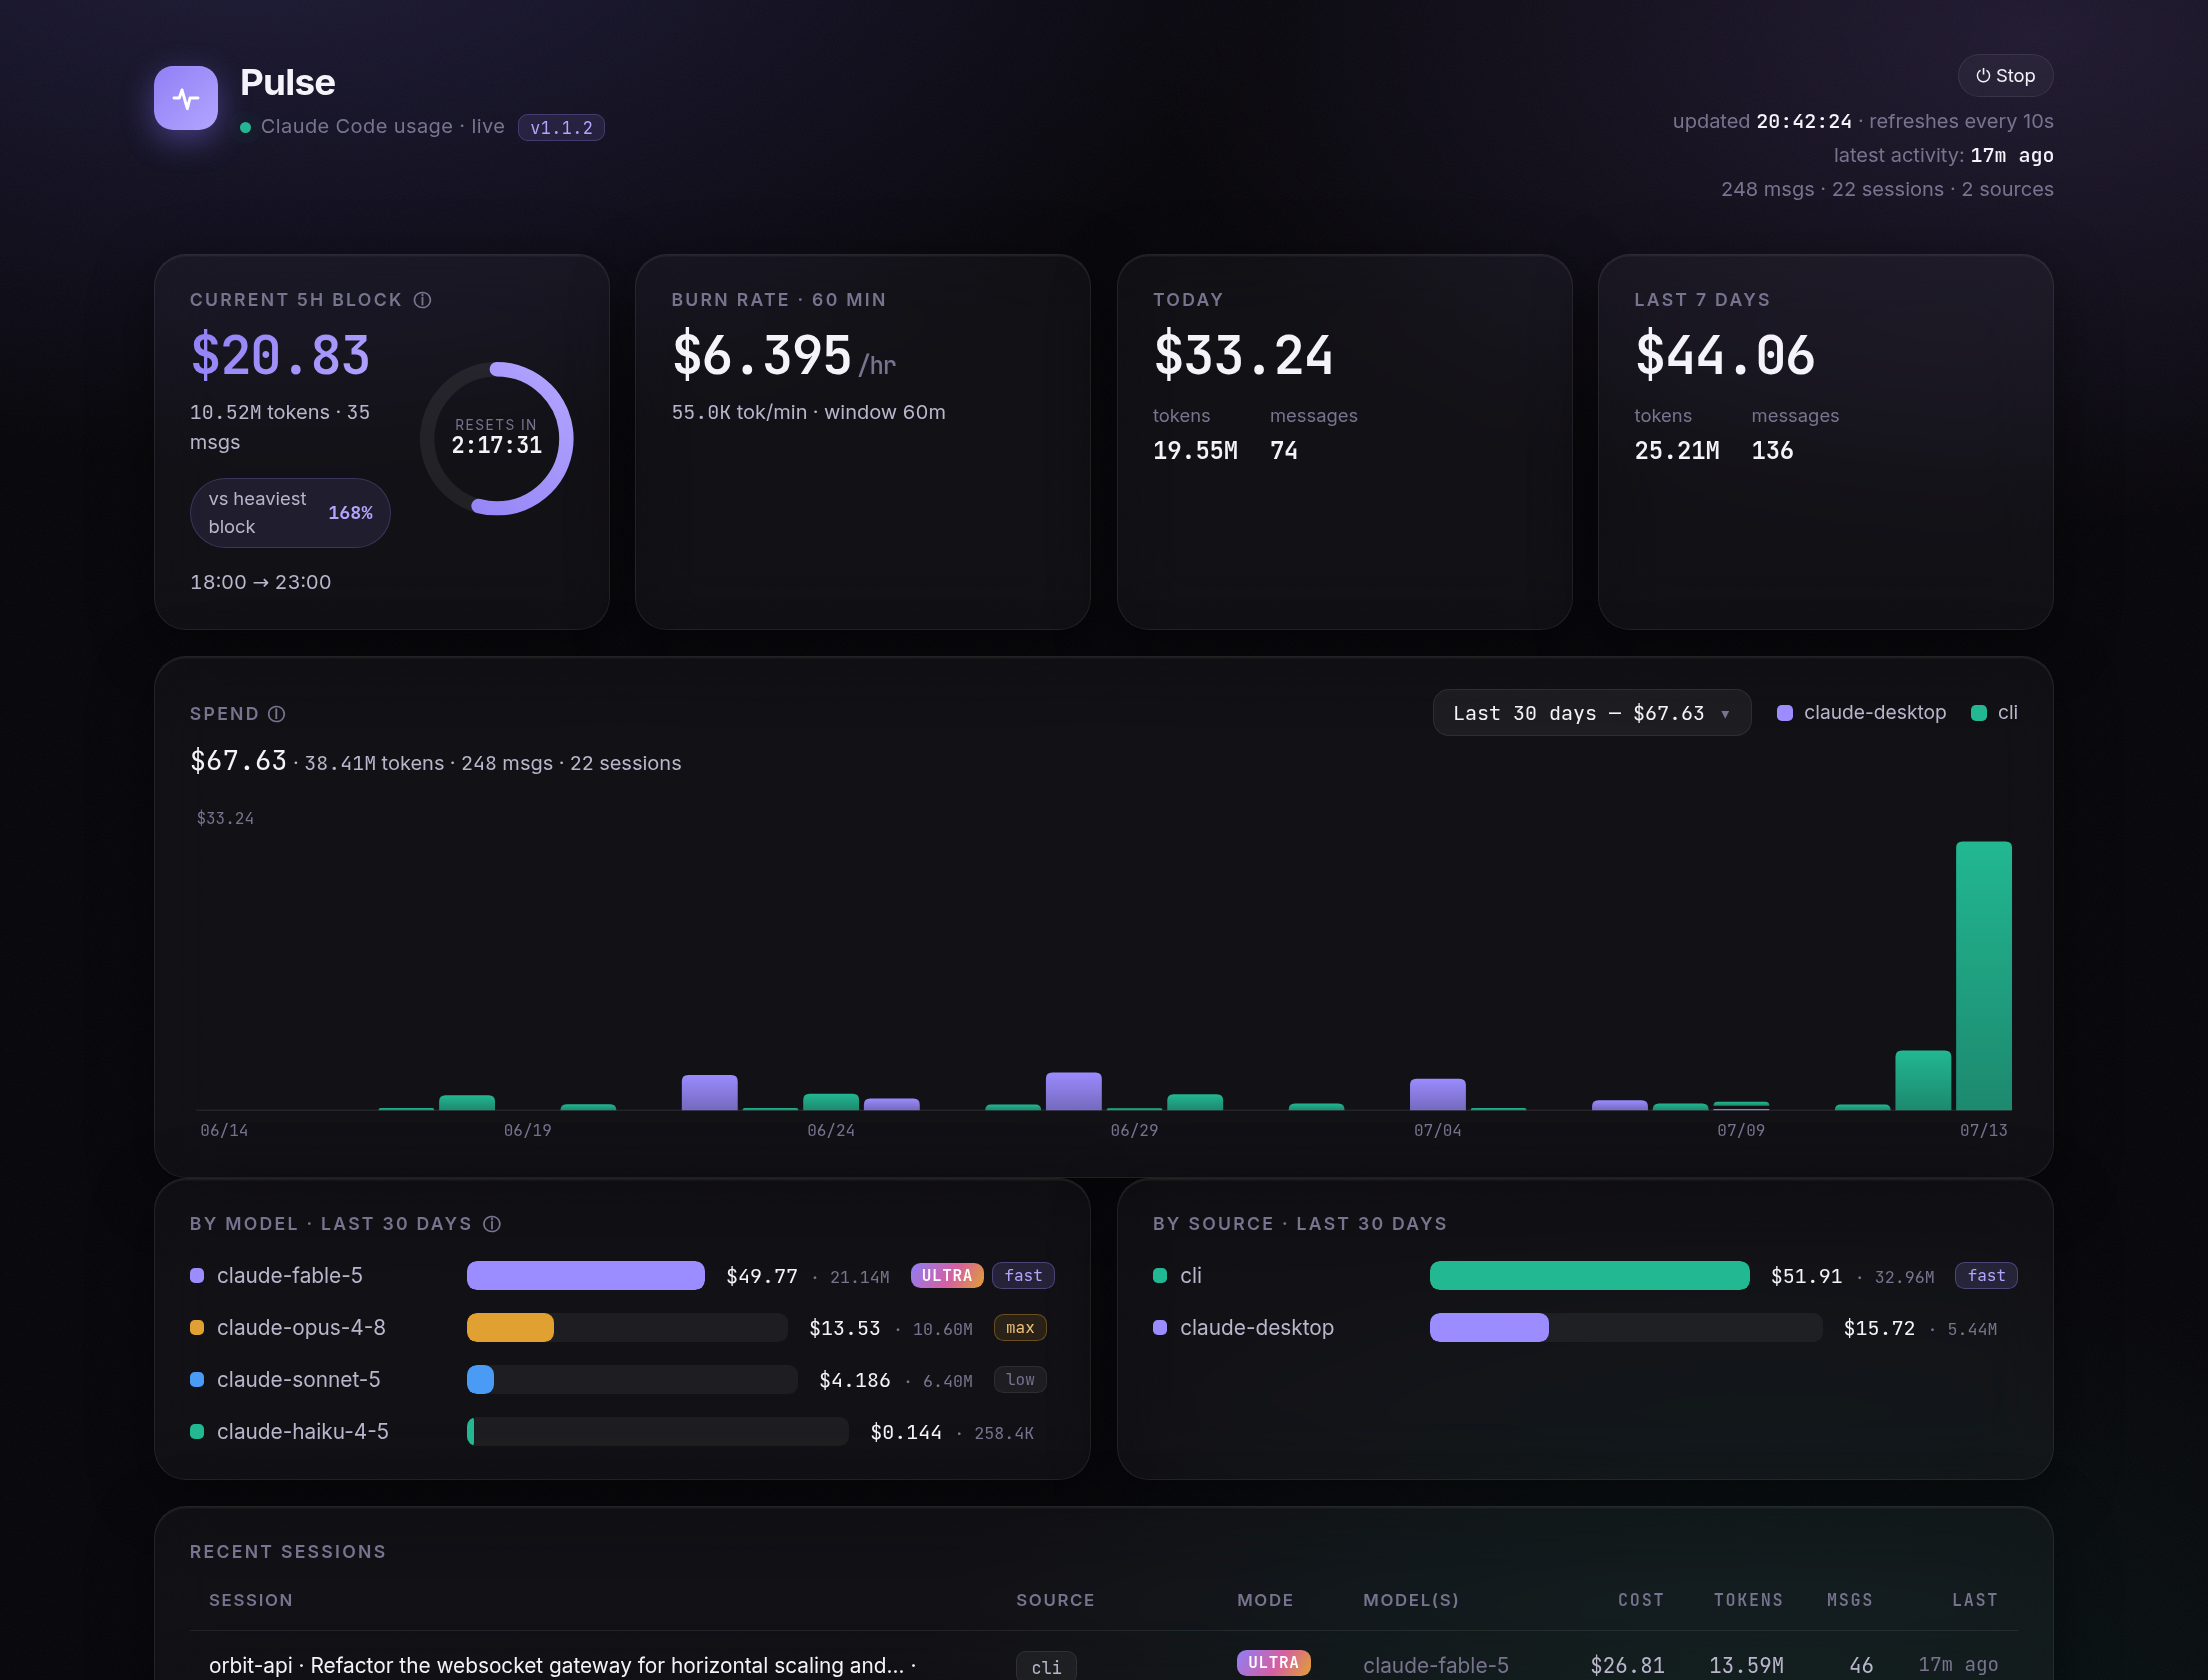
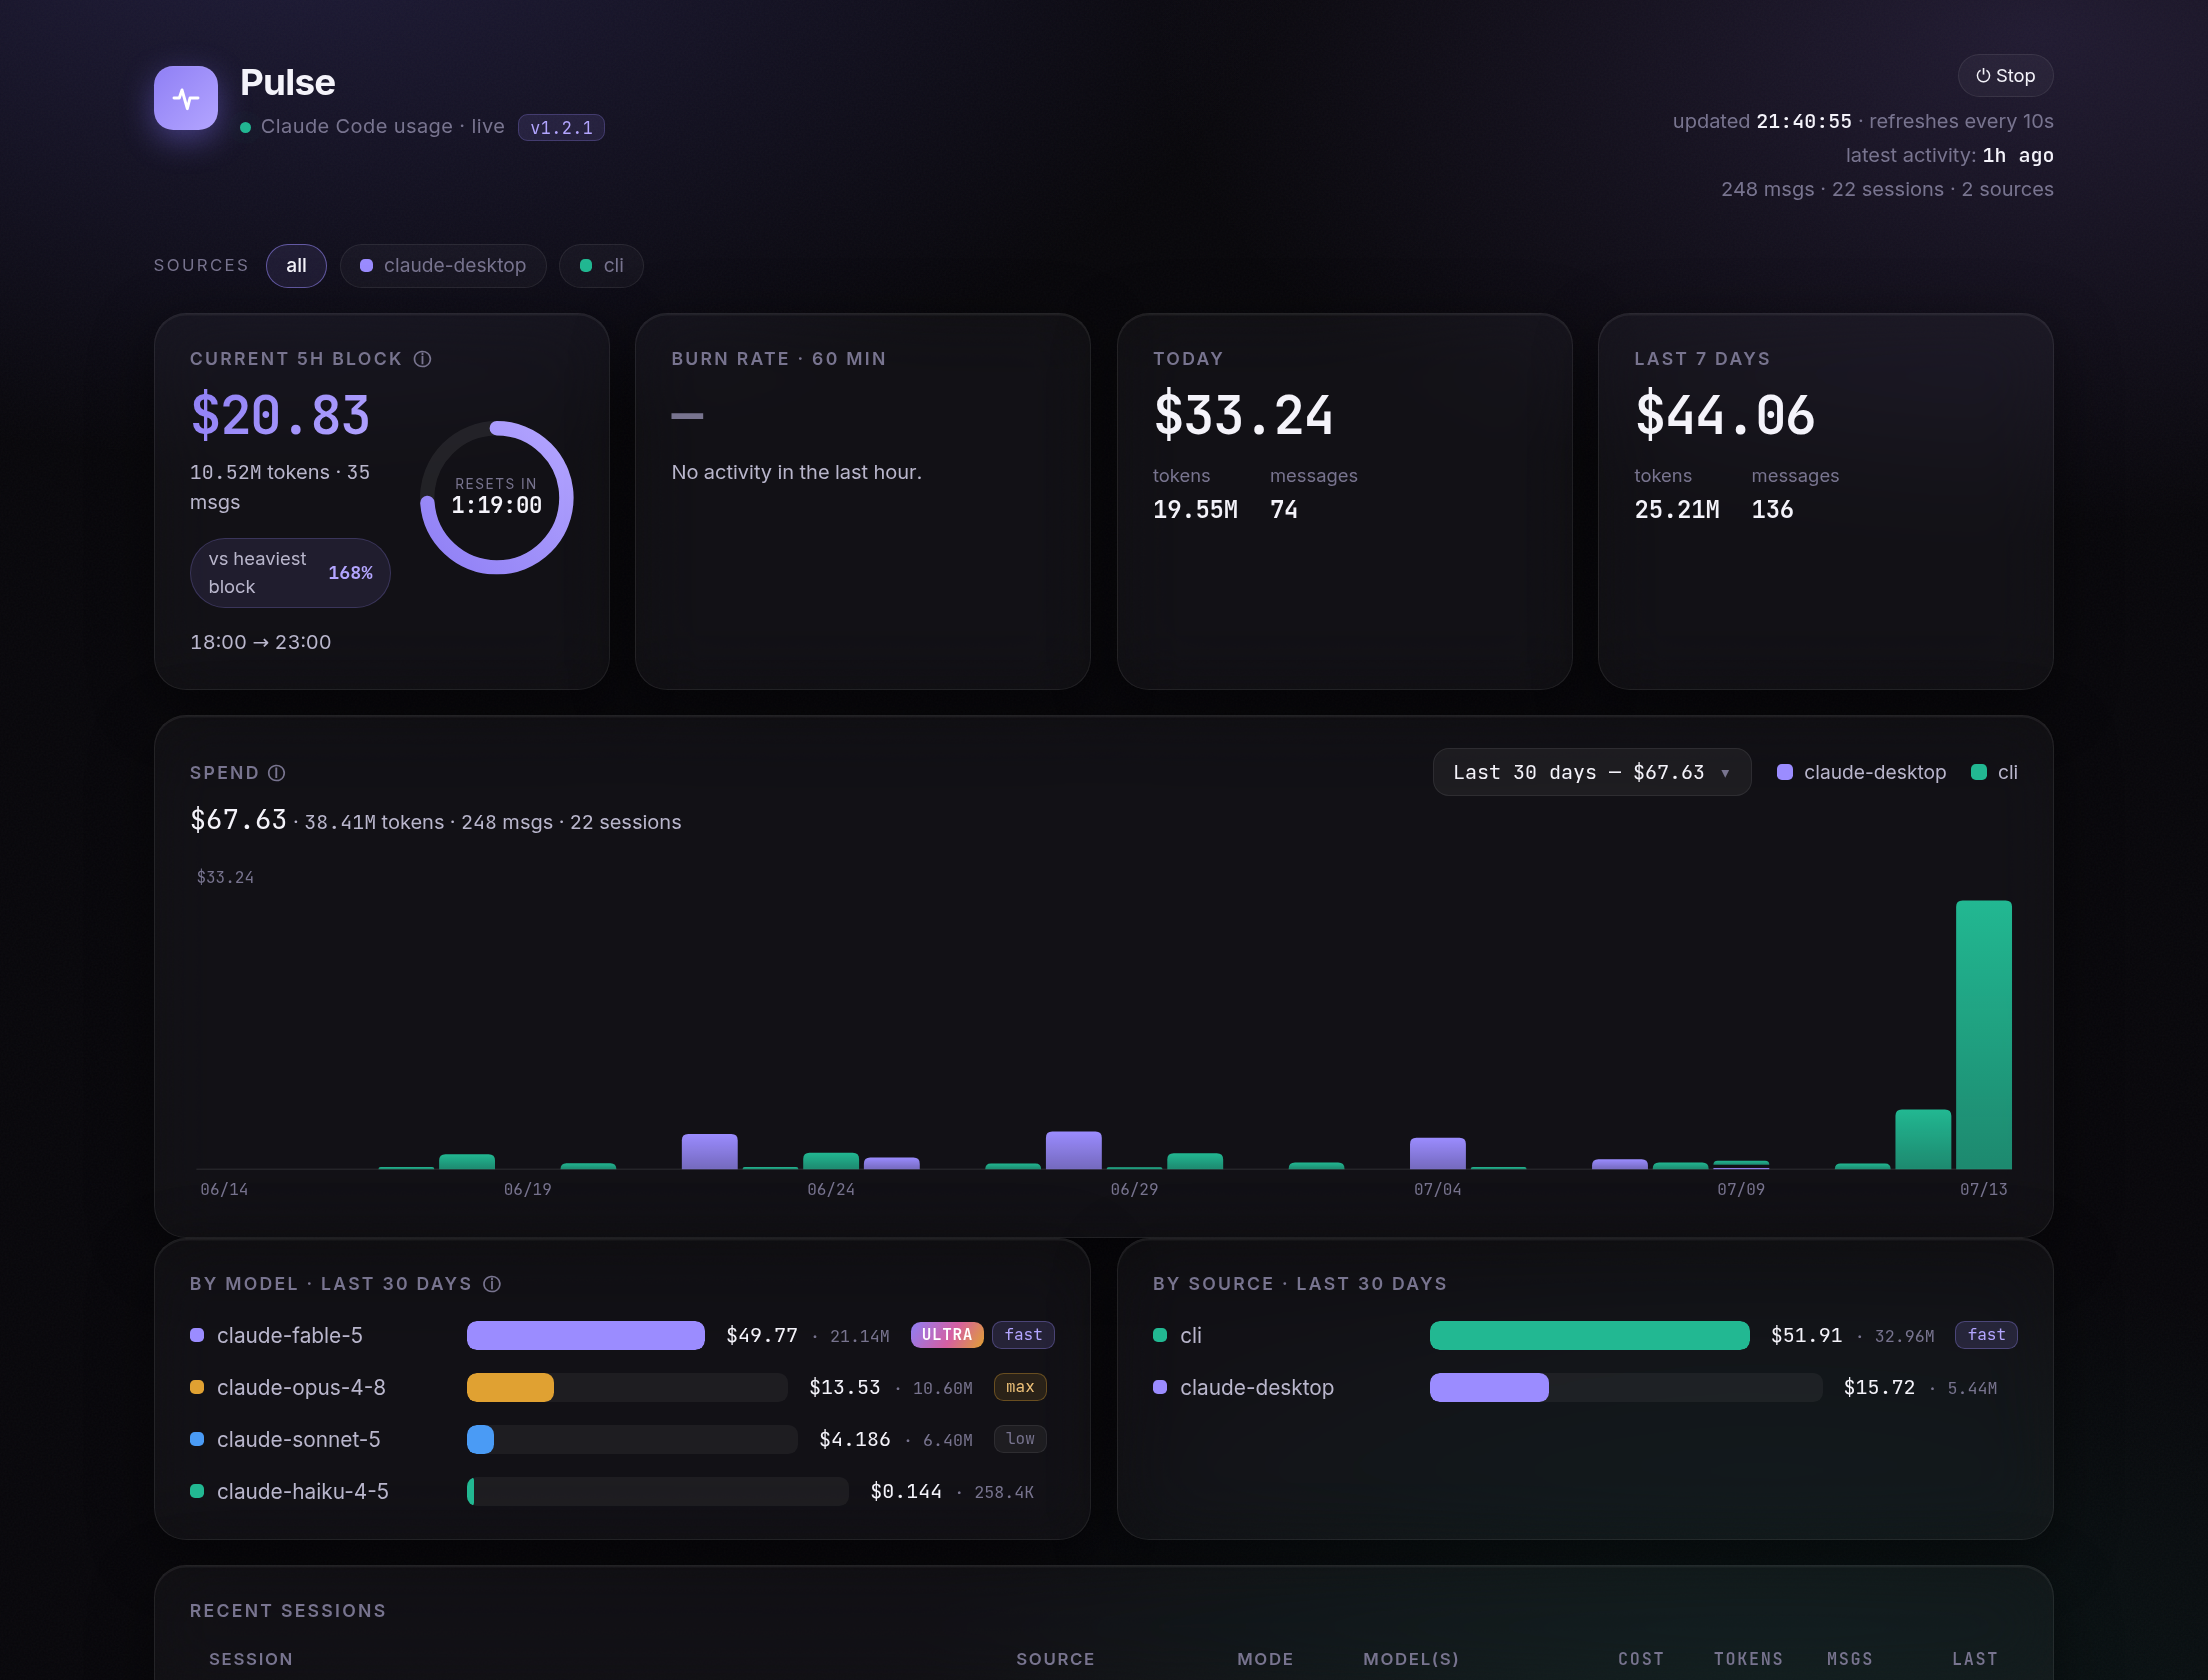
v1.2.1: source filter, chart tooltip fix, gpt-unknown backfill
- Source filter: /api/summary?sources=a,b scopes the entire payload
  (blocks, burn, periods, sessions) server-side; allSources/allModels
  stay unfiltered so the chip list is complete and colors stable. UI
  chips above the dashboard, multi-select, persisted in localStorage.
- Spend-chart tooltip positioned container-relative: position:fixed +
  clientX/Y broke under the framer-motion card's CSS transform (a
  transformed ancestor becomes the containing block for fixed), landing
  the tooltip far from the cursor. Verified with a Playwright hover test
  (14px from cursor; right-edge flip stays inside the chart).
- Codex entries recorded before the first turn_context are buffered and
  backfilled with the model + re-priced once it is known — no more
  gpt-unknown rows for the file-leading turn.
- Docs screenshots refreshed (filter chips visible).

Claude-Session: https://claude.ai/code/session_01RmvFr4qeAde8RjrYQ6X57H

diff --git a/web/src/App.jsx b/web/src/App.jsx
@@ -8,9 +8,18 @@ import {
 import { ServerPanel, StopButton } from './server-panel.jsx';
 
 export default function App() {
-  const { data, error, loading } = useSummary();
+  // Source filter — empty array means "all sources". Persisted locally.
+  const [srcFilter, setSrcFilter] = useState(() => {
+    try { return JSON.parse(localStorage.getItem('pulse-source-filter')) || []; } catch (_) { return []; }
+  });
+  const { data, error, loading } = useSummary(10000, srcFilter);
   const [periodKey, setPeriodKey] = useState('last30');
   const [stopped, setStopped] = useState(false);
+
+  function updateFilter(next) {
+    setSrcFilter(next);
+    try { localStorage.setItem('pulse-source-filter', JSON.stringify(next)); } catch (_) {}
+  }
 
   const colorMaps = useMemo(() => ({
     src: makeColorMap(data?.allSources),
@@ -83,6 +92,12 @@ export default function App() {
           ⚠ Server unreachable ({error}) — if you stopped it, double-click <code>pulse.exe</code> to start it again.
         </div>
       )}
+      <SourceFilter
+        allSources={data.allSources || []}
+        active={srcFilter}
+        colorMap={colorMaps.src}
+        onChange={updateFilter}
+      />
       {!data.hasData ? (
         <>
           <div className="center">
@@ -98,6 +113,44 @@ export default function App() {
         <Dashboard data={data} colorMaps={colorMaps} periodKey={periodKey} setPeriodKey={setPeriodKey} onStopped={() => setStopped(true)} />
       )}
     </Shell>
+  );
+}
+
+// Multi-select source filter chips. Empty selection = all sources. The list
+// always shows every source ever seen (server keeps allSources unfiltered),
+// so a chip never disappears because you just filtered it out.
+function SourceFilter({ allSources, active, colorMap, onChange }) {
+  if (!allSources || allSources.length < 2) return null;
+  const set = new Set(active);
+  function toggle(s) {
+    const next = new Set(set);
+    if (next.has(s)) next.delete(s); else next.add(s);
+    // selecting everything = no filter
+    onChange(next.size === allSources.length ? [] : Array.from(next));
+  }
+  return (
+    <div className="srcfilter">
+      <span className="sflabel">sources</span>
+      <button
+        className={'sfchip' + (set.size === 0 ? ' on' : '')}
+        onClick={() => onChange([])}
+      >
+        all
+      </button>
+      {allSources.map((s) => (
+        <button
+          key={s}
+          className={'sfchip' + (set.has(s) ? ' on' : '')}
+          onClick={() => toggle(s)}
+          title={set.has(s) ? 'Click to remove from filter' : 'Click to show only selected sources'}
+        >
+          <i style={{ background: colorMap.get(s) }} />{s}
+        </button>
+      ))}
+      {set.size > 0 && (
+        <span className="sfnote">showing {Array.from(set).join(' + ')} only</span>
+      )}
+    </div>
   );
 }
 

diff --git a/server.js b/server.js
@@ -24,7 +24,7 @@ const url = require('url');
 const crypto = require('crypto');
 
 // Version — keep in sync with package.json (build/make-exe.mjs enforces this).
-const PULSE_VERSION = '1.2.0';
+const PULSE_VERSION = '1.2.1';
 const SERVER_START = Date.now();
 let IS_DAEMON_CHILD = false; // set when running as the hidden background child
 
@@ -637,6 +637,10 @@ function parseCodexFile(filePath) {
   let model = 'gpt-unknown';
   let effort = null;
   let prevTotal = null;
+  // token_count events can precede the first turn_context in a rollout; buffer
+  // those entries and backfill the model (and cost) once it is known instead
+  // of leaving a "gpt-unknown" row on the dashboard.
+  const preModelEntries = [];
 
   for (const line of raw.split('\n')) {
     if (!line) continue;
@@ -652,7 +656,14 @@ function parseCodexFile(filePath) {
       continue;
     }
     if (rec.type === 'turn_context') {
-      if (p.model) model = String(p.model);
+      if (p.model) {
+        model = String(p.model);
+        while (preModelEntries.length) {
+          const pe = preModelEntries.pop();
+          pe.model = model;
+          pe.cost = costForEntry(pe);
+        }
+      }
       const eff = p.effort ||
         (p.collaboration_mode && p.collaboration_mode.settings && p.collaboration_mode.settings.reasoning_effort);
       if (eff) effort = String(eff);
@@ -703,6 +714,7 @@ function parseCodexFile(filePath) {
       };
       e.cost = costForEntry(e);
       entries.push(e);
+      if (model === 'gpt-unknown') preModelEntries.push(e);
       continue;
     }
   }
@@ -1342,12 +1354,34 @@ function collectTitles(obj, fileName, map) {
 // HTTP SERVER  (§6)
 // ---------------------------------------------------------------------------
 
-function buildSummary() {
+// sourceFilter: optional Set of source names — the dashboard's source filter.
+// The WHOLE payload (blocks, burn, periods, sessions) reflects the filtered
+// view, while allSources/allModels stay unfiltered so the filter UI can list
+// every option and colors stay stable across filter changes.
+function buildSummary(sourceFilter) {
   const { entries, sessionMeta, ultracodeSessions, effortEvents, fileCount, codexFileCount } = parseAll();
   const desktopTitles = readDesktopTitles();
   const now = Date.now();
-  const payload = aggregate(entries, sessionMeta, desktopTitles, now,
+  let scoped = entries;
+  let appliedFilter = null;
+  if (sourceFilter && sourceFilter.size) {
+    scoped = entries.filter((e) => sourceFilter.has(e.source));
+    appliedFilter = Array.from(sourceFilter).sort();
+  }
+  const payload = aggregate(scoped, sessionMeta, desktopTitles, now,
     mergeModes(readModes(), effortEvents), ultracodeSessions);
+  if (appliedFilter) {
+    // Recompute the all-time lists from UNFILTERED entries: the filter chips
+    // must keep showing every source, and color assignment must not reshuffle.
+    const srcSet = new Set(), modelSet = new Set();
+    for (const e of entries) {
+      srcSet.add(e.source);
+      if (!HIDDEN_MODELS.has(e.model)) modelSet.add(e.model);
+    }
+    payload.allSources = Array.from(srcSet).sort();
+    payload.allModels = Array.from(modelSet).sort();
+  }
+  payload.sourceFilter = appliedFilter;
   // Surface what Pulse is actually reading, so a wrong-directory setup (e.g.
   // Claude Code under WSL while Pulse runs in native Windows) is diagnosable.
   payload.claudeDir = claudeDir();
@@ -1801,7 +1835,14 @@ function startServer(port, host, opts) {
       }
       if (route === '/api/summary') {
         const t0 = Date.now();
-        const payload = buildSummary();
+        // ?sources=cli,codex — scope the whole payload to those sources.
+        let sourceFilter = null;
+        const rawSources = new URLSearchParams(parsed.query || '').get('sources');
+        if (rawSources) {
+          const names = rawSources.split(',').map((s) => s.trim()).filter(Boolean).slice(0, 20);
+          if (names.length) sourceFilter = new Set(names);
+        }
+        const payload = buildSummary(sourceFilter);
         payload.buildMs = Date.now() - t0;
         console.log(`[pulse] /api/summary built in ${payload.buildMs}ms`);
         res.writeHead(200, { 'Content-Type': 'application/json', 'Cache-Control': 'no-store' });

diff --git a/web/src/charts.jsx b/web/src/charts.jsx
@@ -130,8 +130,8 @@ export function SpendChart({ period, colorMap }) {
   const single = period.singleSource;
 
   function showTip(ev, b) {
-    const el = tipRef.current;
-    if (!el) return;
+    const el = tipRef.current, wrap = ref.current;
+    if (!el || !wrap) return;
     let rows = '';
     srcs.forEach((s) => {
       const c = (b.bySource && b.bySource[s]) || 0;
@@ -142,17 +142,22 @@ export function SpendChart({ period, colorMap }) {
     if (!rows) rows = '<div class="tr" style="color:var(--text-3)">no spend</div>';
     el.innerHTML = `<div class="td">${b.date}</div>${rows}<div class="tr tot"><span>total</span><span class="tv">${money2(b.total)}</span></div><div class="tr" style="color:var(--text-3)"><span>tokens</span><span class="tv">${tokens(b.tokens)}</span></div>`;
     el.style.opacity = '1';
+    // Position relative to the chart container, not the viewport: an ancestor
+    // with a CSS transform (the framer-motion card) turns position:fixed into
+    // ancestor-relative, which sent the tooltip far away from the cursor.
+    const rect = wrap.getBoundingClientRect();
     const tw = el.offsetWidth, th = el.offsetHeight;
-    let left = ev.clientX + 14, top = ev.clientY + 14;
-    if (left + tw > window.innerWidth - 8) left = ev.clientX - tw - 14;
-    if (top + th > window.innerHeight - 8) top = ev.clientY - th - 14;
-    el.style.left = Math.max(8, left) + 'px';
-    el.style.top = Math.max(8, top) + 'px';
+    let left = ev.clientX - rect.left + 14;
+    let top = ev.clientY - rect.top + 14;
+    if (left + tw > rect.width - 4) left = ev.clientX - rect.left - tw - 14;
+    if (top + th > rect.height - 2) top = ev.clientY - rect.top - th - 12;
+    el.style.left = Math.max(4, left) + 'px';
+    el.style.top = Math.max(2, top) + 'px';
   }
   function hideTip() { if (tipRef.current) tipRef.current.style.opacity = '0'; }
 
   return (
-    <div ref={ref} style={{ width: '100%' }} onMouseLeave={hideTip}>
+    <div ref={ref} style={{ width: '100%', position: 'relative' }} onMouseLeave={hideTip}>
       <svg width={w} height={H} role="img" aria-label={`Daily spend for ${period.label}`}>
         <defs>
           {srcs.map((s, i) => {

diff --git a/web/src/styles.css b/web/src/styles.css
@@ -209,7 +209,7 @@ td.title { color: var(--text); max-width: 480px; }
   font-size: 12px; color: var(--text); box-shadow: 0 14px 40px rgba(0, 0, 0, 0.6); z-index: 70;
   max-width: 280px;
 }
-.ctip { position: fixed; pointer-events: none; opacity: 0; transition: opacity 0.1s ease; }
+.ctip { position: absolute; left: 0; top: 0; pointer-events: none; opacity: 0; transition: opacity 0.1s ease; }
 .ctip .td { font-family: var(--mono); color: var(--text-2); margin-bottom: 7px; font-size: 11.5px; }
 .ctip .tr { display: flex; align-items: center; justify-content: space-between; gap: 16px; font-variant-numeric: tabular-nums; }
 .ctip .tr i { width: 9px; height: 9px; border-radius: 3px; display: inline-block; margin-right: 6px; vertical-align: -1px; }
@@ -282,3 +282,21 @@ footer .reading { margin-top: 12px; font-family: var(--mono); font-size: 11.5px;
 /* header actions (update pill + compact stop) */
 .hactions { display: flex; gap: 8px; justify-content: flex-end; align-items: center; margin-bottom: 4px; }
 .btn.compact { padding: 3px 11px; font-size: 11.5px; border-radius: 999px; }
+
+/* ---- source filter chips ---- */
+.srcfilter { display: flex; align-items: center; gap: 8px; flex-wrap: wrap; margin: -6px 0 16px; }
+.srcfilter .sflabel { font-size: 10.5px; letter-spacing: 0.14em; text-transform: uppercase; color: var(--text-3); margin-right: 2px; }
+.sfchip {
+  appearance: none; display: inline-flex; align-items: center; gap: 7px;
+  border: 1px solid var(--stroke); background: rgba(255, 255, 255, 0.03);
+  color: var(--text-3); padding: 4px 12px; border-radius: 999px;
+  font: inherit; font-size: 12px; cursor: pointer;
+  transition: border-color .15s, background .15s, color .15s;
+}
+.sfchip i { width: 8px; height: 8px; border-radius: 3px; display: inline-block; }
+.sfchip:hover { border-color: rgba(155, 140, 255, 0.45); color: var(--text-2); }
+.sfchip.on {
+  border-color: rgba(155, 140, 255, 0.55); background: rgba(155, 140, 255, 0.1);
+  color: var(--text); font-weight: 500;
+}
+.srcfilter .sfnote { font-size: 11.5px; color: var(--text-3); font-family: var(--mono); }

diff --git a/web/src/lib.js b/web/src/lib.js
@@ -77,17 +77,21 @@ export function makeColorMap(names) {
 }
 
 // ---- data hook: fetch /api/summary on mount + every 10s ----
-export function useSummary(intervalMs = 10000) {
+// `sources` (array of source names) scopes the whole payload server-side;
+// empty/null means all sources.
+export function useSummary(intervalMs = 10000, sources = null) {
   const [state, setState] = useState({ data: null, error: null, loading: true });
   const inFlight = useRef(false);
+  const sourcesKey = (sources && sources.length) ? sources.slice().sort().join(',') : '';
 
   useEffect(() => {
     let alive = true;
+    const url = '/api/summary' + (sourcesKey ? '?sources=' + encodeURIComponent(sourcesKey) : '');
     async function refresh() {
       if (inFlight.current) return;
       inFlight.current = true;
       try {
-        const r = await fetch('/api/summary', { cache: 'no-store' });
+        const r = await fetch(url, { cache: 'no-store' });
         if (!r.ok) throw new Error('HTTP ' + r.status + ' — ' + (await r.text()).slice(0, 200));
         const data = await r.json();
         if (alive) setState({ data, error: null, loading: false });
@@ -103,7 +107,7 @@ export function useSummary(intervalMs = 10000) {
       alive = false;
       clearInterval(id);
     };
-  }, [intervalMs]);
+  }, [intervalMs, sourcesKey]);
 
   return state;
 }

diff --git a/CHANGELOG.md b/CHANGELOG.md
@@ -1,5 +1,18 @@
 # Changelog
 
+## v1.2.1
+
+- **Source filter:** chips above the dashboard scope EVERYTHING (spend, models,
+  sessions, block, burn rate) to any combination of sources — e.g. only
+  `claude-desktop`, or `cli` + `claude-desktop` for Claude-only. Multi-select,
+  persisted locally, colors stay stable.
+- **Chart tooltip fix:** the spend-chart hover tooltip was positioned with
+  viewport coordinates under a CSS-transformed ancestor, landing far from the
+  cursor. Now positioned container-relative — verified with a real-browser
+  hover test.
+- **No more `gpt-unknown`:** Codex usage recorded before the turn context is
+  buffered and back-attributed to the right model (and re-priced) once known.
+
 ## v1.2.0
 
 - **macOS binary:** releases now include `pulse-macos` (Apple Silicon), and the